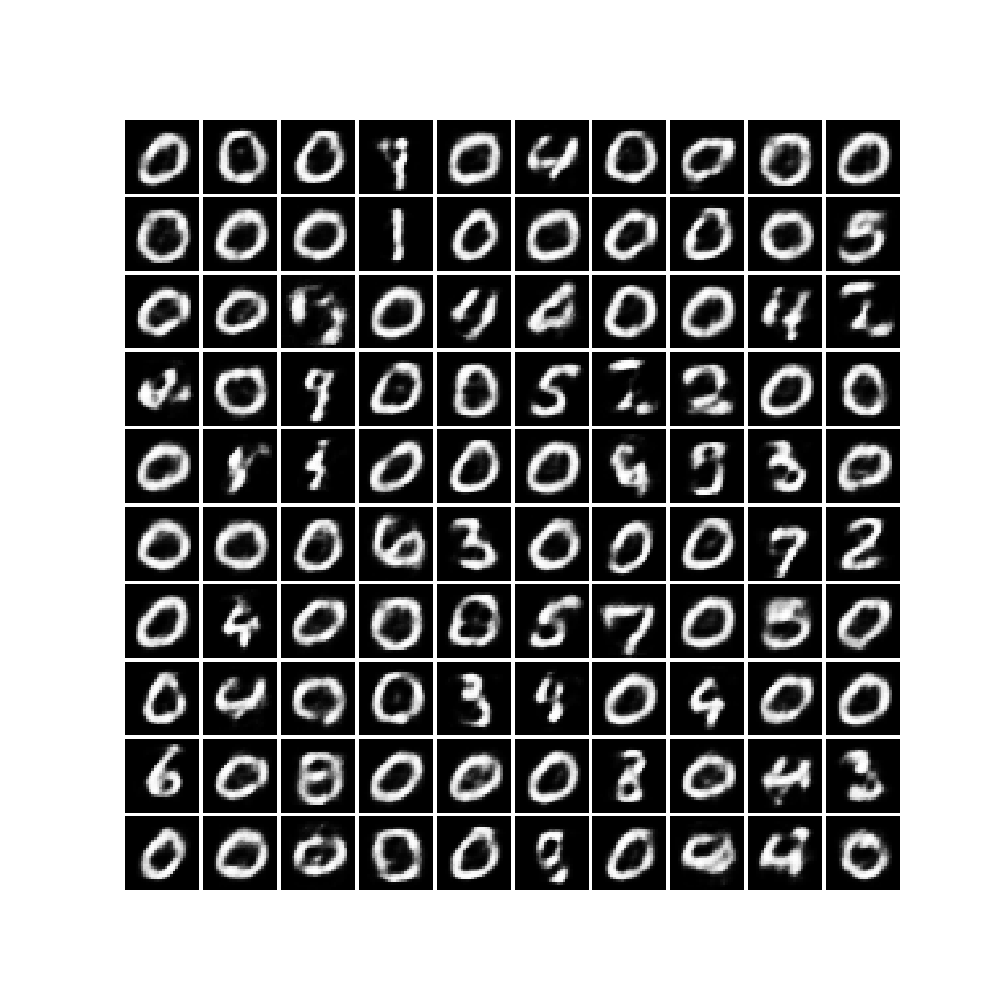
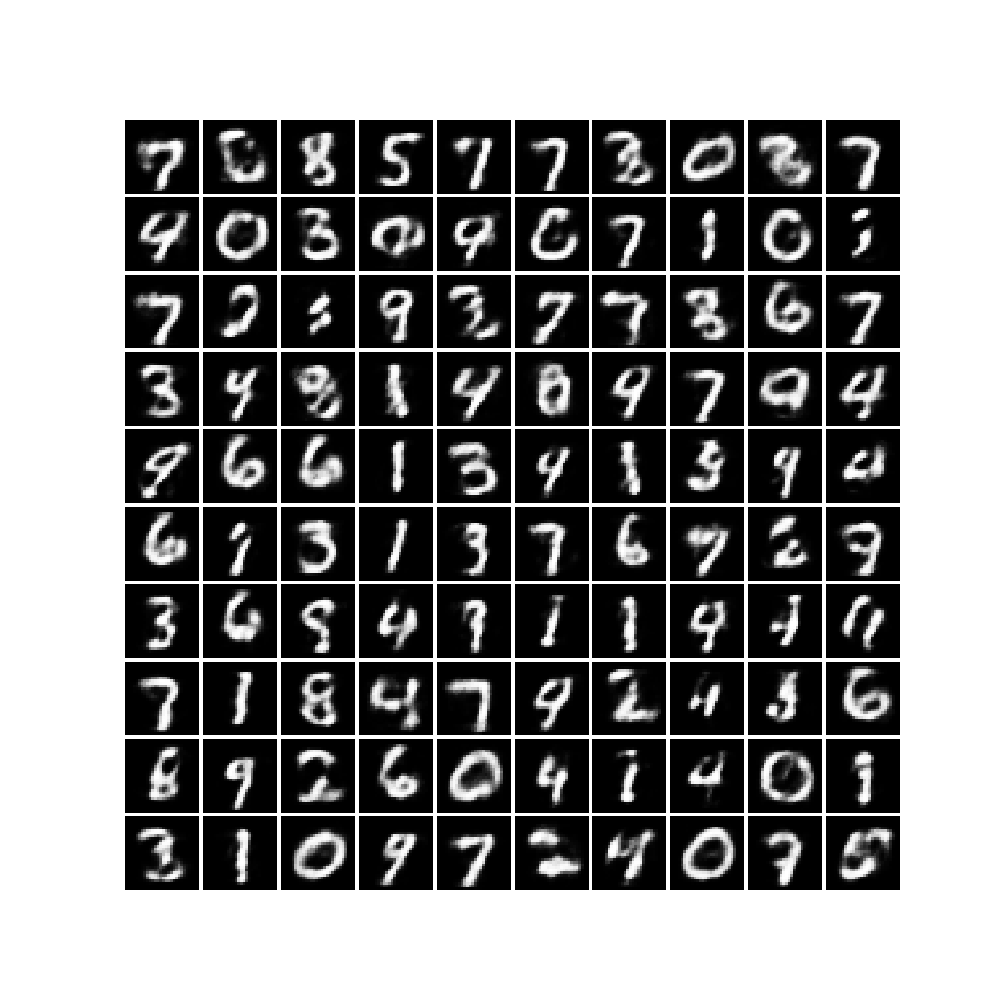
change problem c

Changed region(s): [[0.124, 0.124, 0.899, 0.899]]

diff --git a/hw2/code/RBM.py b/hw2/code/RBM.py
@@ -174,7 +174,7 @@ def problem_a_b(k=1):
     model = RBM(k=1)
     train_loss_array=[]
     valid_loss_array=[]
-    for i in range(50):
+    for i in range(40):
         # evaluate
         train_loss = train_or_evaluate_one_epoch(model, train_data, train = False)
         valid_loss = train_or_evaluate_one_epoch(model, valid_data, train = False)
@@ -208,8 +208,8 @@ problem_a_b(k=10)
 problem_a_b(k=20)
 '''
 def problem_c():
-    model = RBM(k=10)
-    for i in range(30):
+    model = RBM(k=20)
+    for i in range(20):
         print 'Epoch number:', i
         train_or_evaluate_one_epoch(model, train_data, train = True, learning_rt=0.1)
     for i in range(20):
@@ -268,10 +268,12 @@ def train_or_evaluate_epoch(model, data, Train = True,
     average_loss = sum_loss * 1.0 / len(data) 
     return average_loss
 
-def get_loss_one_time(learning_rt = 0.1, momentum = .0, NLL=True, hidden_dim = 100, alpha = .0, act_fun = Sigmoid, W=None):
+def get_loss_one_time(learning_rt = 0.1, momentum = .0, NLL=True,
+            hidden_dim = 100, alpha = .0, act_fun = Sigmoid,
+            W=(2*np.random.rand(100, 784)-1)\
+                *math.sqrt(6)/math.sqrt(100+784)):
     model = NN_3_layer(hidden_dim)
-    if W != None:
-        model.layer1.W[:-1,:]=W.T
+    model.layer1.W[:-1,:]=W.T
     Train_loss = []
     Valid_loss = []
 
@@ -296,7 +298,7 @@ def get_loss_one_time(learning_rt = 0.1, momentum = .0, NLL=True, hidden_dim = 1
 def problem_d():
     train_loss_no_pretrain, valid_loss_no_pretrain, _ = get_loss_one_time(NLL=False)
     model = RBM(k=10)
-    for i in range(30):
+    for i in range(50):
         print 'Epoch number:', i
         train_or_evaluate_one_epoch(model, train_data, train = True, learning_rt=0.1)
     train_loss_pretrain, valid_loss_pretrain, _ = get_loss_one_time(NLL=False, W = model.W)

diff --git a/hw2/code/Autoencoder.py b/hw2/code/Autoencoder.py
@@ -76,7 +76,7 @@ def train_one_epoch(model, data, learning_rt=0.01, train = True):
 def problem_e_f(Denoise = False):
     train_loss_no_pretrain, valid_loss_no_pretrain, _ = get_loss_one_time(NLL=False)
     model = Autoencoder(hidden_dim = 100, Denoise = Denoise)
-    for i in range(20):
+    for i in range(50):
         print 'Epoch number:', i
         train_one_epoch(model, train_data, 0.1)
     for i in range(10):
@@ -111,7 +111,7 @@ def problem_g(hidden_dim):
     Train_loss_array = []
     Valid_loss_array = []
     model = Autoencoder(hidden_dim = hidden_dim)
-    for i in range(100):
+    for i in range(500):
         print 'Epoch number:', i
         Train_loss_array.append(train_one_epoch(model, train_data, train=False))
         Valid_loss_array.append(train_one_epoch(model, valid_data, train=False))
